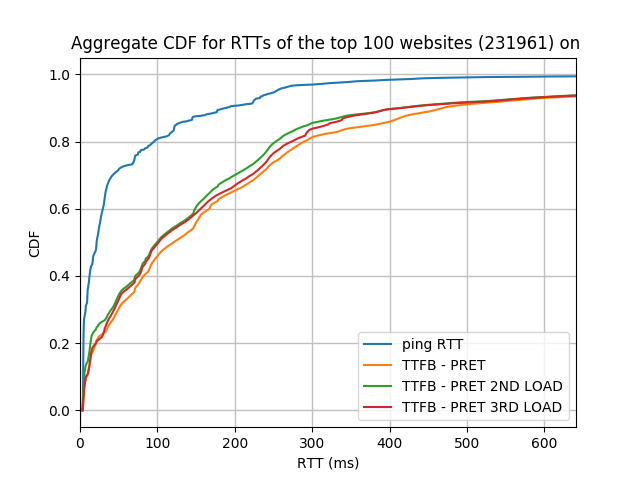
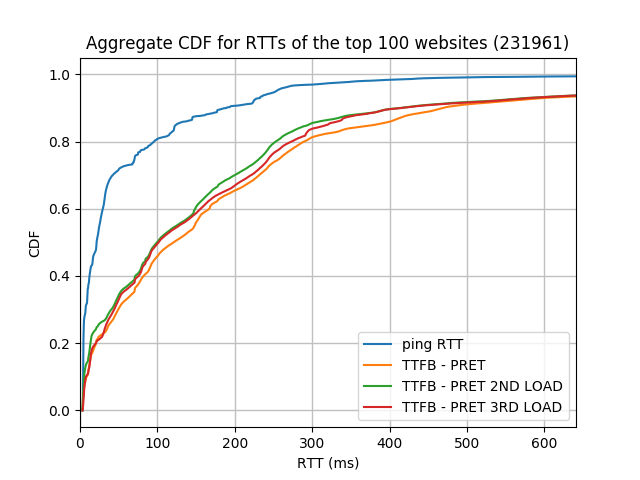
update example chart title

Changed region(s): [[0.0938, 0.0625, 0.9062, 0.125]]

diff --git a/analysis.py b/analysis.py
@@ -146,8 +146,8 @@ def create_plot_cdf(site = "aggregatelog.txt", savefig = False, showfig = False
     plt.xlabel('RTT (ms)')
     plt.ylabel('CDF')
     if site == 'aggregatelog.txt':
-        plt.title('Aggregate CDF for RTTs of the top 100 websites (%i) on %s'
-        % (len(RTTv3) + len(RTT) + len(RTTv2) + len(pR), day))
+        plt.title('Aggregate CDF for RTTs of the top 100 websites (%i)' #on %s
+        % (len(RTTv3) + len(RTT) + len(RTTv2) + len(pR)))
     else:
         plt.title('CDF for RTTs of %s (%i) on %s'
         % (site,len(RTTv3) +  len(RTT) + len(RTTv2) + len(pR), day))
